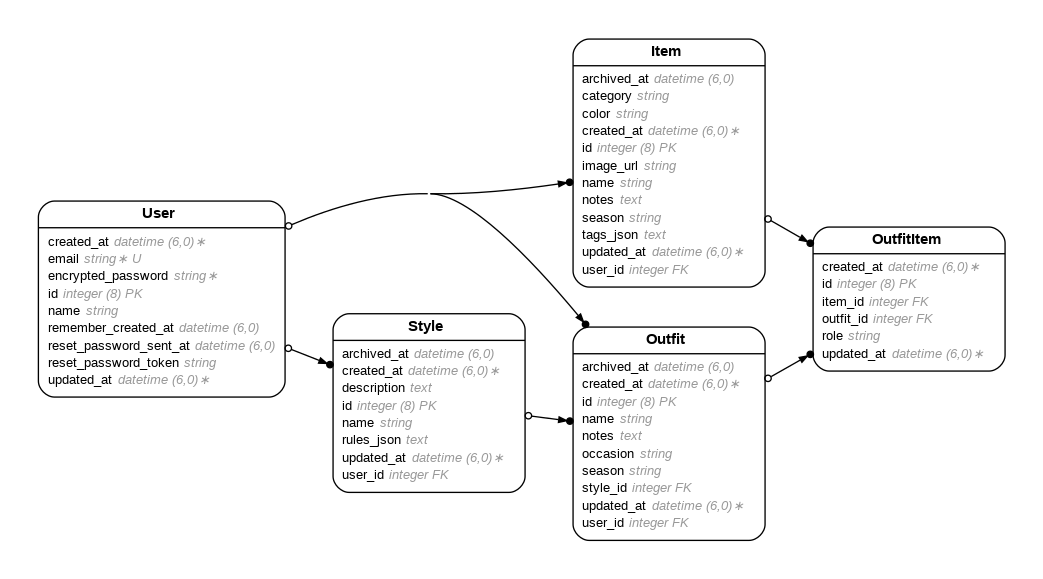
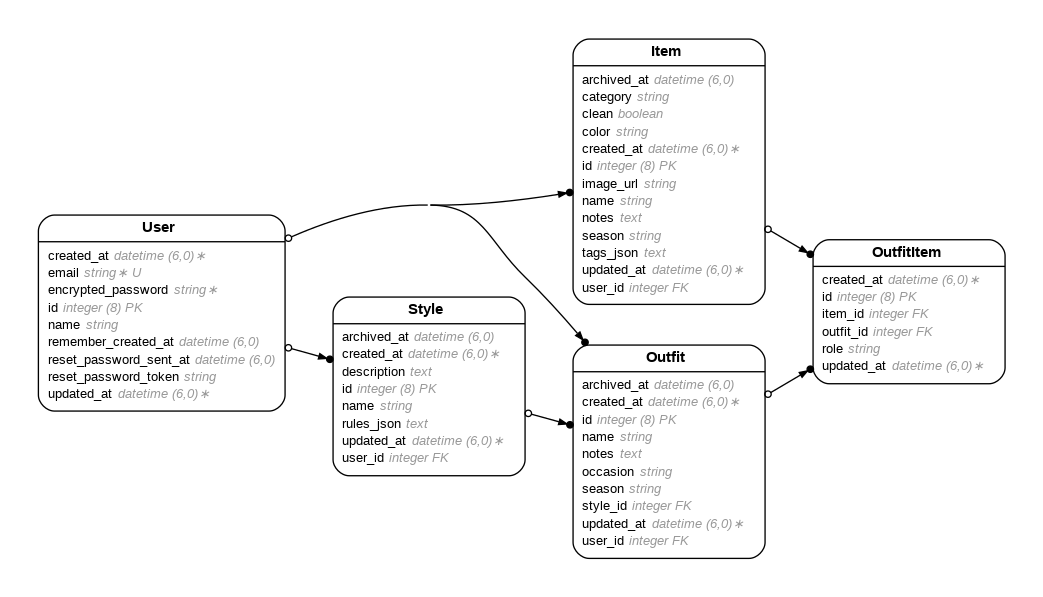
pico styling

diff --git a/app/controllers/items_controller.rb b/app/controllers/items_controller.rb
@@ -1,7 +1,7 @@
 class ItemsController < ApplicationController
   def index
     matching_items = Item.all
-    current_user_items = matching_items.where({ :user_id => current_user})
+    current_user_items = matching_items.where({ :user_id => current_user.id})
     @list_of_items = current_user_items.order({ :created_at => :desc })
 
     render({ :template => "item_templates/index" })
@@ -19,15 +19,15 @@ class ItemsController < ApplicationController
 
   def create
     the_item = Item.new
-    the_item.user_id = params.fetch("query_user_id")
+    the_item.user_id = current_user.id
     the_item.name = params.fetch("query_name")
     the_item.category = params.fetch("query_category")
     the_item.color = params.fetch("query_color")
     the_item.season = params.fetch("query_season")
-    the_item.image_url = params.fetch("image_url")
+    the_item.image_url = params.fetch("query_image_url")    
     the_item.notes = params.fetch("query_notes")
-    the_item.tags_json = params.fetch("query_tags_json")
-    the_item.archived_at = params.fetch("query_archived_at")
+    #the_item.tags_json = params.fetch("query_tags_json")
+    the_item.archived_at = Time.current
 
     if the_item.valid?
       the_item.save
@@ -41,15 +41,15 @@ class ItemsController < ApplicationController
     the_id = params.fetch("path_id")
     the_item = Item.where({ :id => the_id }).at(0)
 
-    the_item.user_id = params.fetch("query_user_id")
+    the_item.user_id = current_user.id
     the_item.name = params.fetch("query_name")
     the_item.category = params.fetch("query_category")
     the_item.color = params.fetch("query_color")
     the_item.season = params.fetch("query_season")
     the_item.image_url = params.fetch("image_url")
     the_item.notes = params.fetch("query_notes")
-    the_item.tags_json = params.fetch("query_tags_json")
-    the_item.archived_at = params.fetch("query_archived_at")
+    #the_item.tags_json = params.fetch("query_tags_json")
+    the_item.archived_at = Time.current
 
     if the_item.valid?
       the_item.save

diff --git a/db/schema.rb b/db/schema.rb
@@ -10,7 +10,7 @@
 #
 # It's strongly recommended that you check this file into your version control system.
 
-ActiveRecord::Schema[8.0].define(version: 2026_03_05_051645) do
+ActiveRecord::Schema[8.0].define(version: 2026_03_06_051627) do
   # These are extensions that must be enabled in order to support this database
   enable_extension "pg_catalog.plpgsql"
 
@@ -26,6 +26,7 @@ ActiveRecord::Schema[8.0].define(version: 2026_03_05_051645) do
     t.datetime "archived_at"
     t.datetime "created_at", null: false
     t.datetime "updated_at", null: false
+    t.boolean "clean", default: true
   end
 
   create_table "outfit_items", force: :cascade do |t|

diff --git a/app/models/item.rb b/app/models/item.rb
@@ -5,6 +5,7 @@
 #  id          :bigint           not null, primary key
 #  archived_at :datetime
 #  category    :string
+#  clean       :boolean          default(TRUE)
 #  color       :string
 #  image_url   :string
 #  name        :string

diff --git a/db/migrate/20260306051627_add_default_to_items_clean.rb b/db/migrate/20260306051627_add_default_to_items_clean.rb
@@ -1,0 +1,5 @@
+class AddDefaultToItemsClean < ActiveRecord::Migration[8.0]
+  def change
+    change_column_default :items, :clean, true
+  end
+end

diff --git a/db/migrate/20260306051234_add_clean_to_items.rb b/db/migrate/20260306051234_add_clean_to_items.rb
@@ -1,0 +1,5 @@
+class AddCleanToItems < ActiveRecord::Migration[8.0]
+  def change
+    add_column :items, :clean, :boolean
+  end
+end
